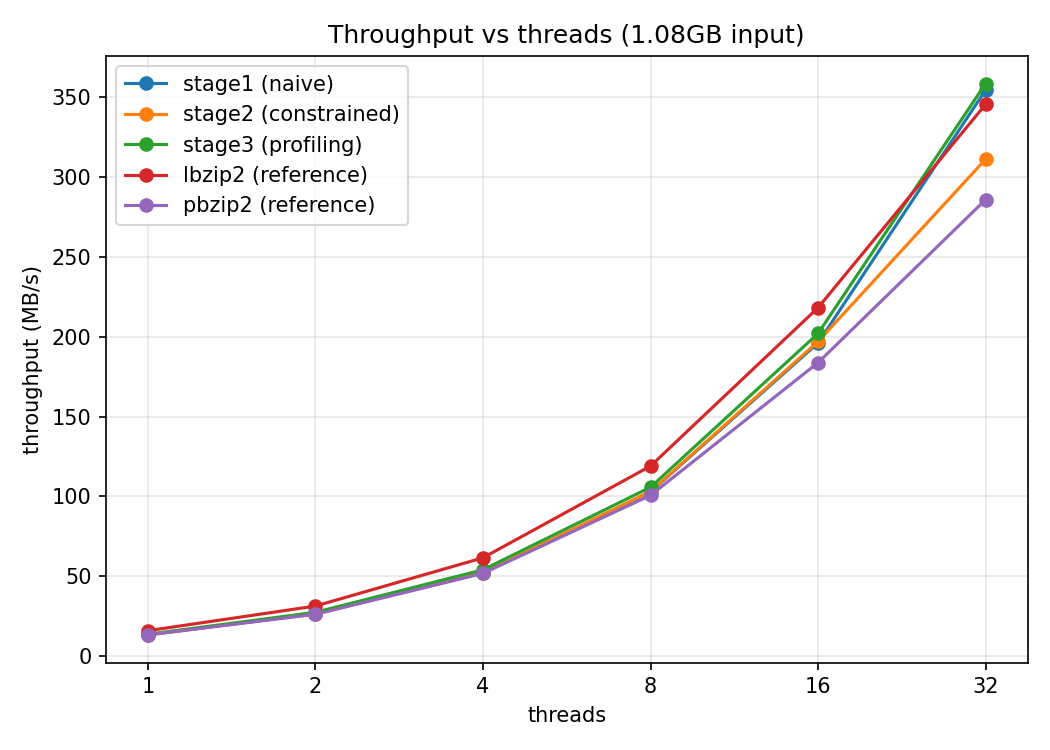
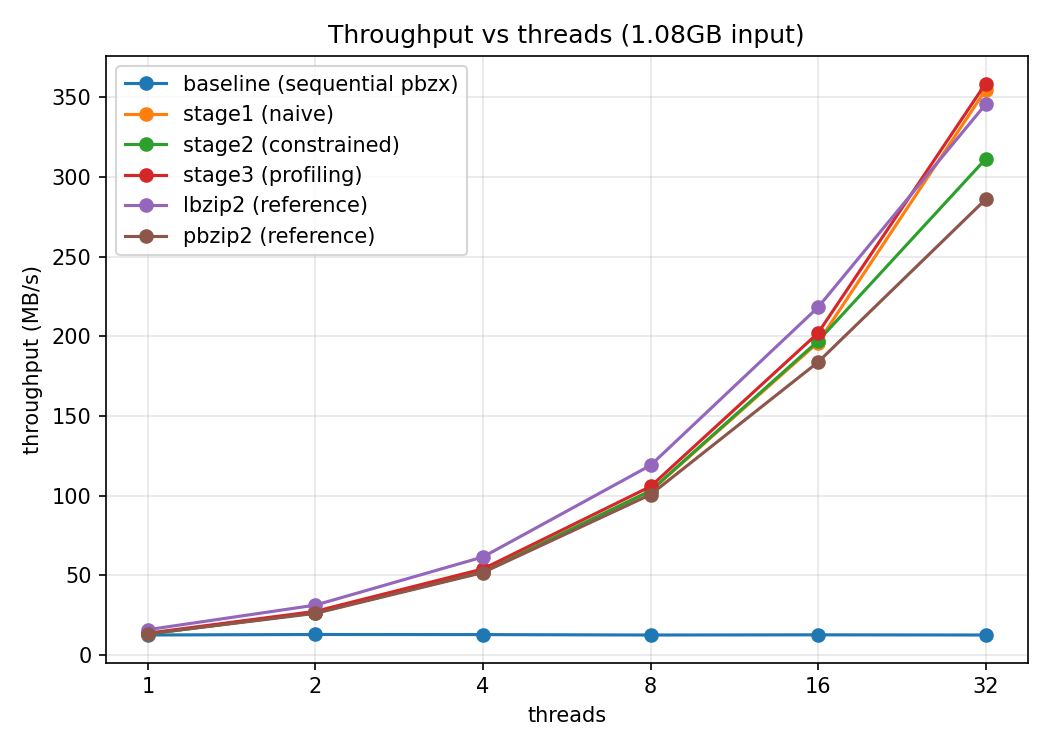
Add sequential pbzx baseline to 1GB comparison
Includes the unmodified baseline as a flat reference line, confirming
--threads has no effect prior to parallelization (83-89s across all
thread counts vs. near-linear scaling for the AI stages and lbzip2/pbzip2).

diff --git a/experiments/comparison/build_comparison.py b/experiments/comparison/build_comparison.py
@@ -17,6 +17,7 @@ REPO = os.path.dirname(os.path.dirname(os.path.dirname(os.path.abspath(__file__)
 # file as it exists on another branch (the stage1/2/3 1GB sweeps were
 # committed on their respective stage branches, not on main).
 SOURCES = {
+    "baseline (sequential pbzx)": f"{REPO}/experiments/baseline/results/baseline_results_1gb.csv",
     "stage1 (naive)":       "origin/stage/1-naive::results/stage1_results_1gb.csv",
     "stage2 (constrained)": "origin/stage/2-constrained::results/stage2_results_1gb.csv",
     "stage3 (profiling)":   "origin/stage/3-profiling::results/stage3_results_1gb.csv",